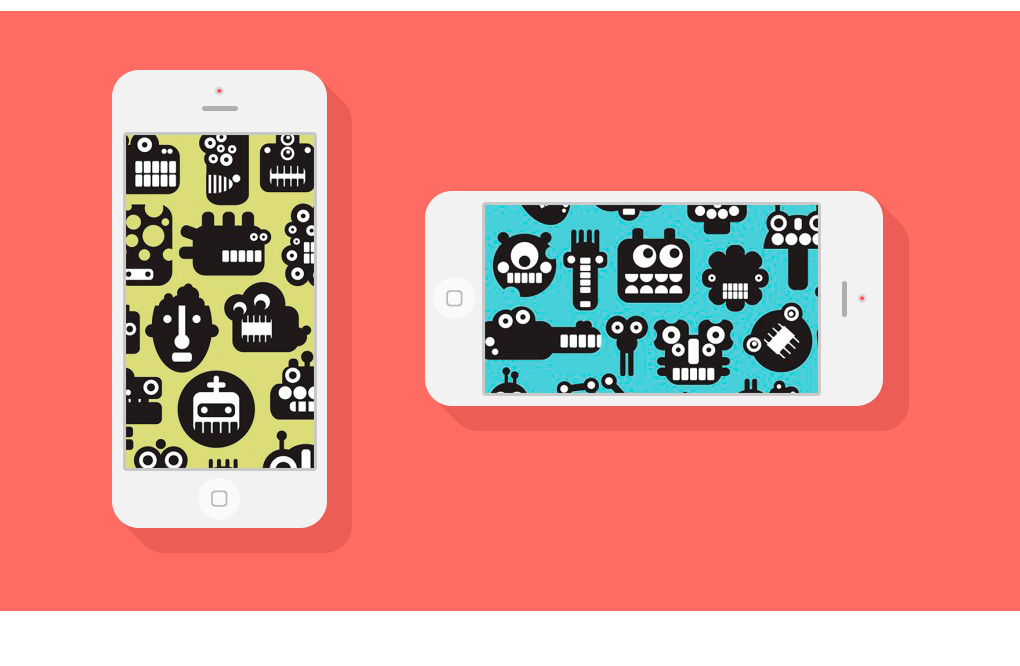
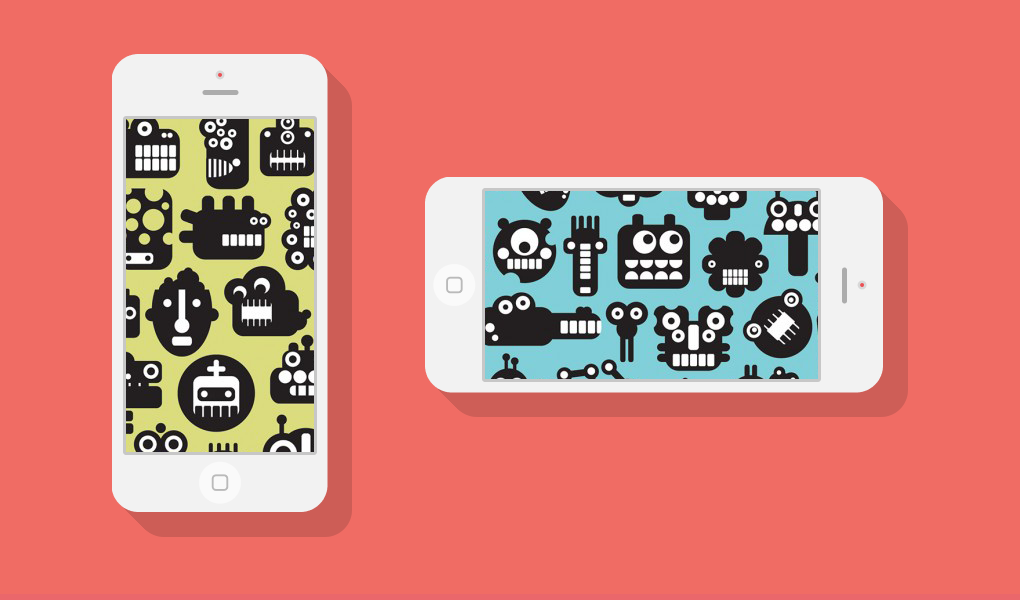
feat: slider changed

diff --git a/style.css b/style.css
@@ -49,6 +49,7 @@ h1{
 .container {
     width: 1020px;
     margin: 0px auto;
+    position: relative;
 }
 
 .header{
@@ -104,7 +105,7 @@ h1{
     margin-right: 13px;
 }
 
-li a{
+ul li a{
     color: white;
     text-decoration: none;
 }
@@ -126,40 +127,66 @@ a:hover {
 /*  MAIN CONTENT
 ==================*/
 
-
-.slider {
+.slider-container{
     background-color: #f06c64;
-    border-bottom: 5px solid #ea676b;
-    padding-top: 95px;
 }
-.slider__items {
-    display: flex;
-    align-items: center;
-    justify-content: space-between;
-    margin-right: 40px;
-    margin-left: 40px;
-    height: 595px;
+.slider-wrap{
+    width: 1020px;
+    height: 600px;
+    margin: 0 auto;
+    position: relative;
+    padding-top: 94px;
 }
 
-.iphone__vertical img{
-    margin-right: 17px;
-    margin-bottom: 4px;
+.slider{
+    width: 1020px;
+    height: 600px;
+    overflow: hidden;
+    position: relative;
 }
 
-.iphone__horizontal{
-    margin-bottom: 4px;
+.slider img{
+    width: 1020px;
+    height: 600px;
+    position: absolute;
+    opacity: 1;
+    transition: all ease 0.5s;
 }
 
-.slider__button{
-    border: none;
-    outline: none;
-    background: none;
-    opacity: 0.4;
+.slider  .opacity0{
+    opacity: 0;
 }
 
-.slider__button:hover {
-   opacity: 1;
+.btn-left{
+    background: url(assets/arrow_left.png);
+    width: 16px;
+    height: 27px;
+    position: absolute;
+    top: 55%;
+    left: 5%;
+    z-index: 999;
+    opacity: 0.5;
 }
+
+.btn-right{
+    background: url(assets/arrow_right.png);
+    width: 16px;
+    height: 27px;
+    position: absolute;
+    top: 55%;
+    right: 5%;
+    z-index: 999;
+    opacity: 0.5;
+}
+
+.btn-left:hover{
+    opacity: 1;
+}
+
+.btn-right:hover{
+    opacity: 1;
+}
+
 
 /* OUR SERVICES
 ===============*/

diff --git a/index.html b/index.html
@@ -30,25 +30,16 @@
     </header>
 
 <!-- SLIDER -->
-
-<section class="slider" id="home">
-    <div class="container">
-      <div class="slider__items">
-        <div class="arrow__left">
-            <button class="slider__button"><img src="assets/arrow_left.png" alt=""></button>
+<div class="slider-container" id="home">
+    <div class="slider-wrap">
+        <div class="slider">
+            <img src="assets/second_slide.jpg" alt="">
+            <img src="assets/first_slide.png" alt="">
         </div>
-        <div class="iphone__vertical">
-            <img src="assets/iphone_vertical.png" alt="ERROR">
-        </div>
-        <div class="iphone__horizontal">
-            <img src="assets/iphone_horizontal.png" alt="ERROR">
-        </div>
-        <div class="arrow__right">
-          <button class="slider__button"><img src="assets/arrow_right.png" alt=""></button>
-        </div>
-      </div>
+        <div class="btn-left"></div>
+        <div class="btn-right"></div>
     </div>
-</section>
+</div>
 
 <!--  OUR SERVICES  -->
 

diff --git a/script.js b/script.js
@@ -1,3 +1,5 @@
+// ACTIVE MENU LINKS
+
 function onScroll(){
     const MENU = document.querySelectorAll('#menu li a')
     const HOME = document.getElementById('home');
@@ -50,4 +52,39 @@ function onScroll(){
       });
 
 }
+
+// SLIDER
+
+let images = document.querySelectorAll('.slider img');
+let current = 0;
+
+function slider() {
+    for (let i = 0; i < images.length; i++){
+        images[i].classList.add('opacity0');
+    }
+    images[current].classList.remove('opacity0');
+    
+    
+}
+
+document.querySelector('.btn-left').onclick = function(){
+    if (current - 1 == -1){
+        current = images.length - 1;
+    }else{
+        current--;
+    }
+    slider();
+};
+
+document.querySelector('.btn-right').onclick = function(){
+    if (current + 1 == images.length){
+        current = 0;
+    }else{
+        current++;
+    }
+    slider();
+};
+
+
+
 onScroll()
